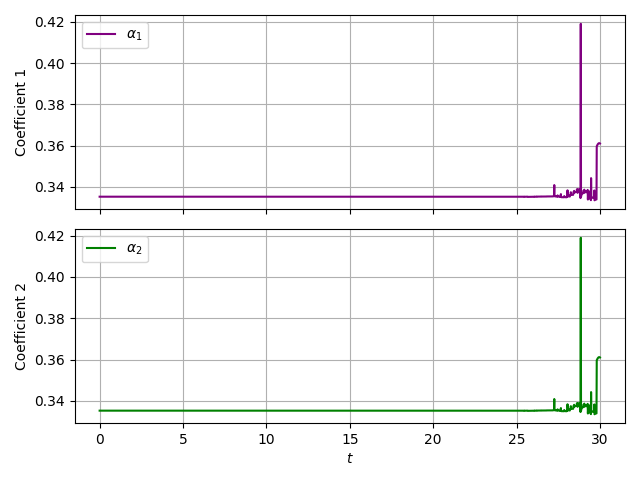
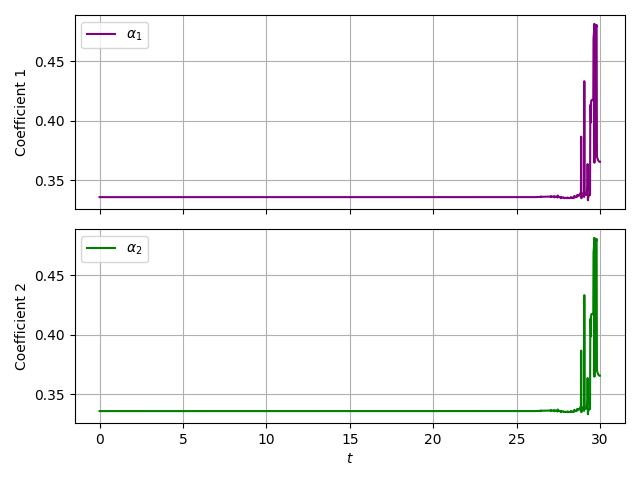
.

diff --git a/src/flumen/LSTM_my.py b/src/flumen/LSTM_my.py
@@ -396,7 +396,7 @@ def linearisation_curr__FitzHughNagumo(param, x, u):
 # ---------------- Linearisation LPV functions ------------------------------ #
 # ─────────────────────────────────────────────────────────────────────────── #
 
-def linearisation_lpv__VanDerPol(param, x, u, radius=0.2, epsilon=1e-4):
+def linearisation_lpv__VanDerPol(param, x, u, radius=3, epsilon=1e-4):
     x1_eq = param['x1_eq']
     x2_eq = param['x2_eq']
     u_eq = param['u_eq']
